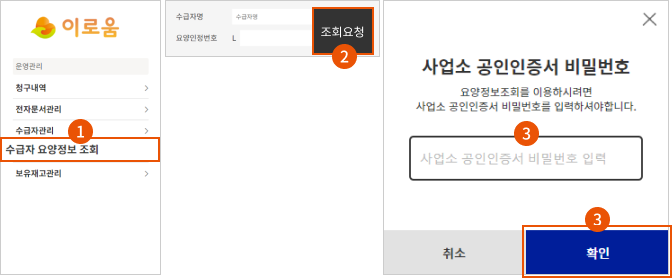
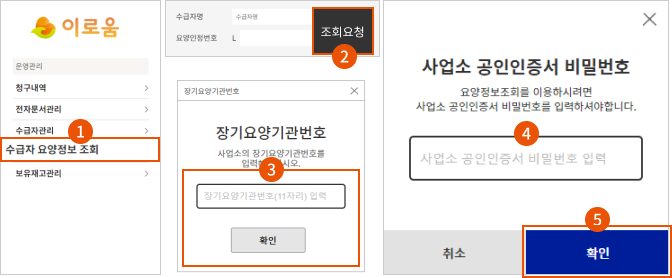
0215_05

diff --git a/2023Cert_RegisterUI/index.html b/2023Cert_RegisterUI/index.html
@@ -86,10 +86,11 @@
                             <img src="images/cert_guide04.png" alt="">
                             </div>
                             <div class="contentsText">
-                                <h3 class="conTitle">4. 사업소 공인 인증서로 로그인하고 요양 정보를 조회하세요!</h3>
-                                요양정보 조회 페이지에서 수급자명과 요양인정번호를 입력 후 [조회 요청] 버튼을 클릭하세요<br>
+                                <h3 class="conTitle">4. 사업소 공인 인증서로 로그인하고 요양정보를 조회하세요!</h3>
+                                요양정보 조회페이지에서 수급자명과 요양인정번호를 입력 후 [조회 요청] 버튼을 클릭하세요.<br>
+                                회원가입시 장기요양기관번호를 기입하시지 않은 사업소는 장기요양기관번호 입력창에 번호를 입력하고 확인을 클릭하세요.<br>
                                 사업소 공인인증서 비밀번호를 입력하여 로그인하세요.<br>
-                                로그인 후 간단하게 요양 정보를 조회 하 실 수 있습니다.                    
+                                로그인 후 간단하게 요양정보를 조회하 실 수 있습니다.                   
                             </div>
                     </div>
                     </div>                    

diff --git a/2023Re_eroum/css/common.css b/2023Re_eroum/css/common.css
@@ -90,27 +90,29 @@ html, body{
     .bg {
         width: 100%;
         height: 100%;
-        background: white;
-        position: absolute; top: 0; left: -100%; transition: 0.3s;
+        background: pink;
+        position: absolute;
+        top: 0; _left: -100%; transition: 0.3s;
     }
     .overlay {
         display: none;
-        position: fixed;
+        position:fixed;
         width: 100%;
         height: 100%;
         left: 0;
         top: 0;
+        border: 0;
         background: rgb(0, 0, 0);
         opacity: 0.5;
         z-index: 1000;
 
     }
    .asideClone {
-        position: fixed;
+        position:absolute;
         width: 85%;
         height: 100%;
         padding-left: 30px;
-        top: -0px;
+        top: 0px;
         left: -100%;
         background: white;
         display: block;

diff --git a/2023Re_eroum/js/script.js b/2023Re_eroum/js/script.js
@@ -1,5 +1,9 @@
 console.log("test");
 
+// 메뉴
+$(".bg").slideUp()
+
+
 
 let view = true;
 // 토글
@@ -7,11 +11,13 @@ $(".toggle").click(function(){
     if( view == true){
         $(".toggle").addClass("active");
         $(".asideClone").css("left",0);
+        $(".bg").css("left",0);
         $(".overlay").show();
         view = false;
     }else{
         $(".toggle").removeClass("active");
         $(".asideClone").css("left","-100%");
+        $(".bg").css("left","-100%");
         $(".overlay").hide();
         view = true;
     }
